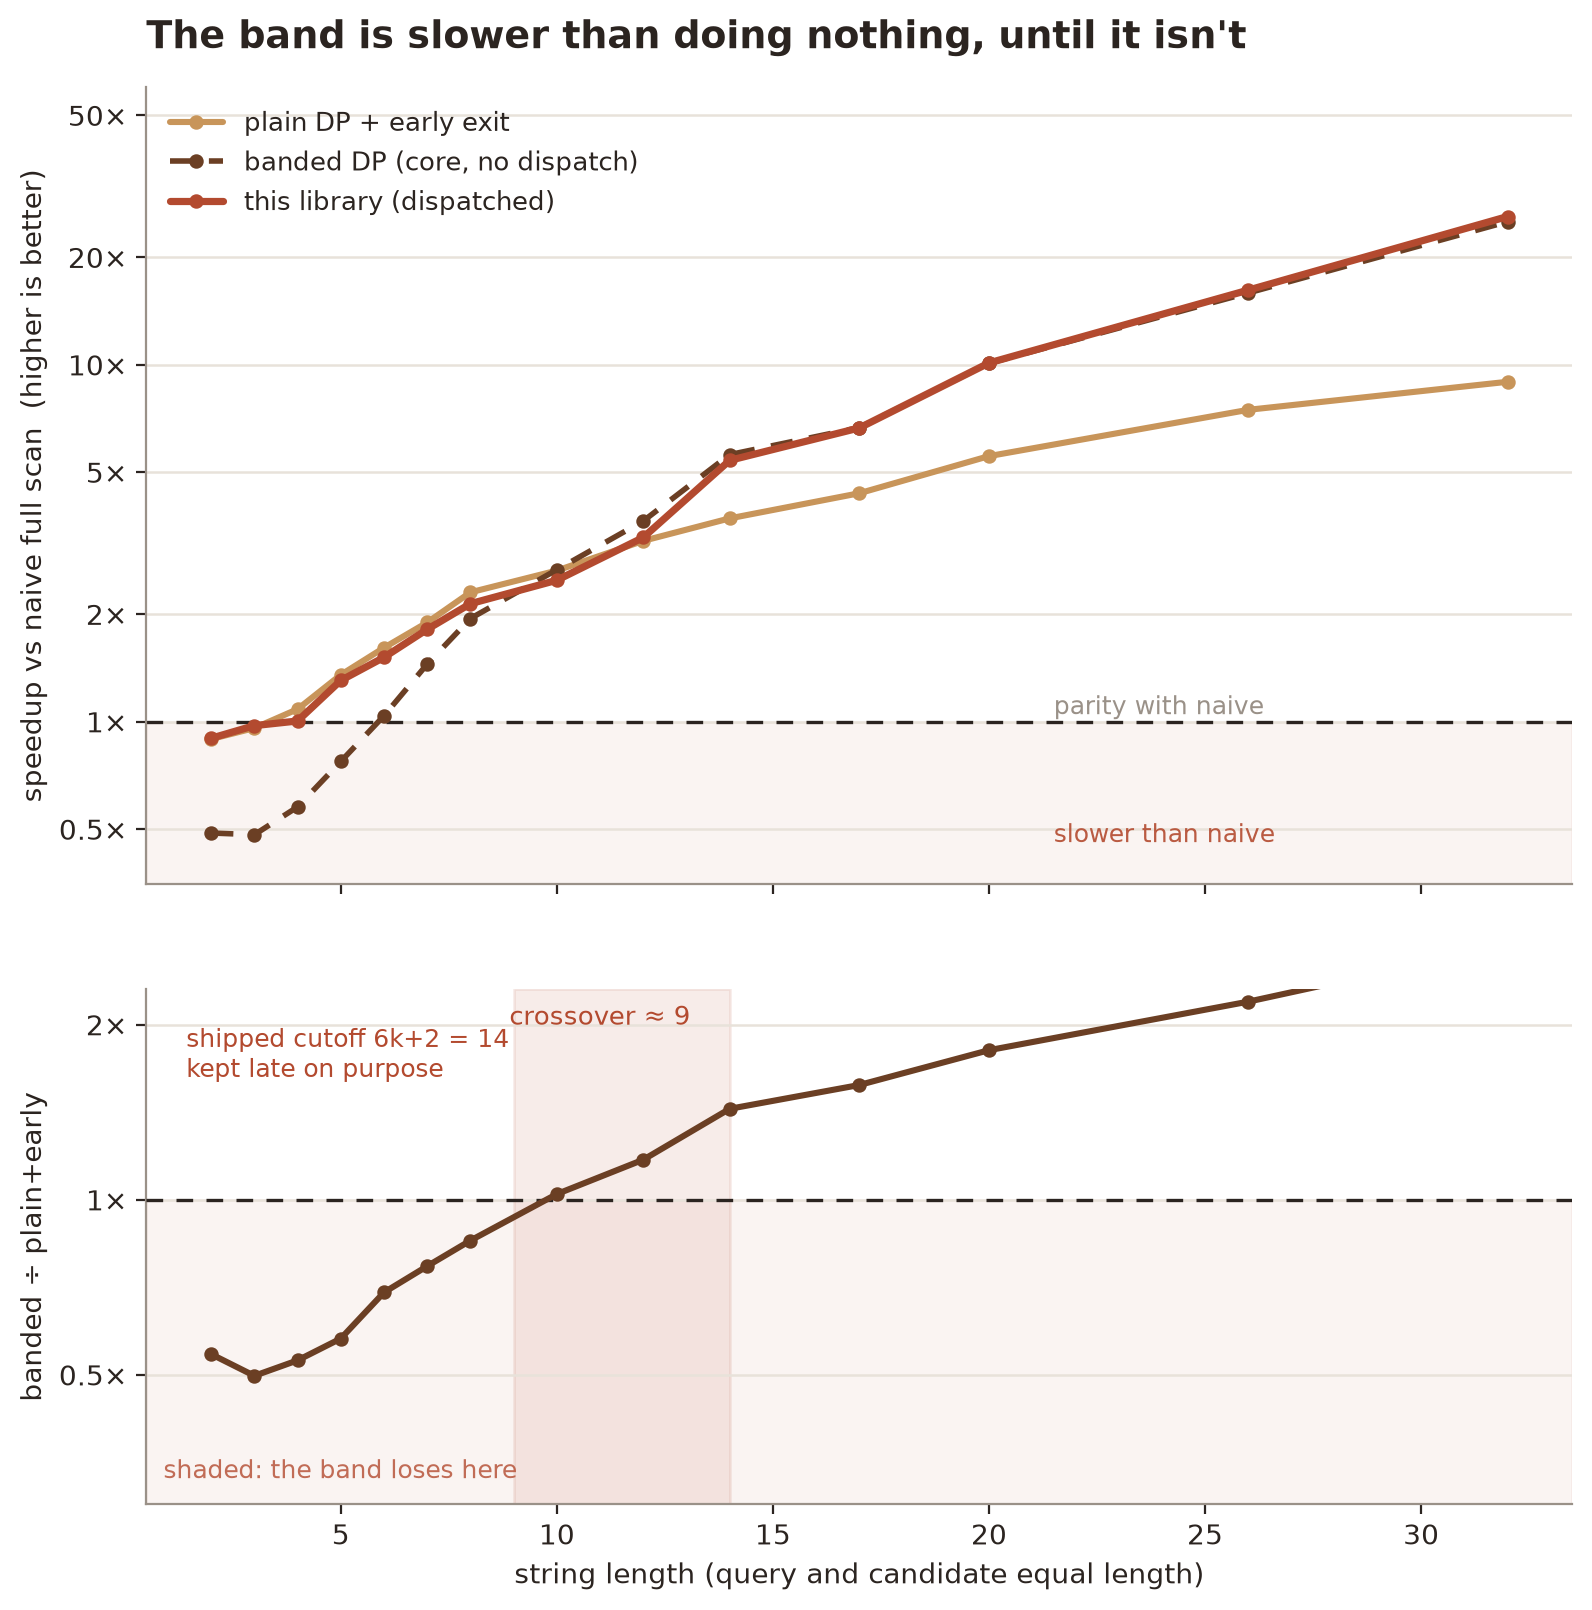
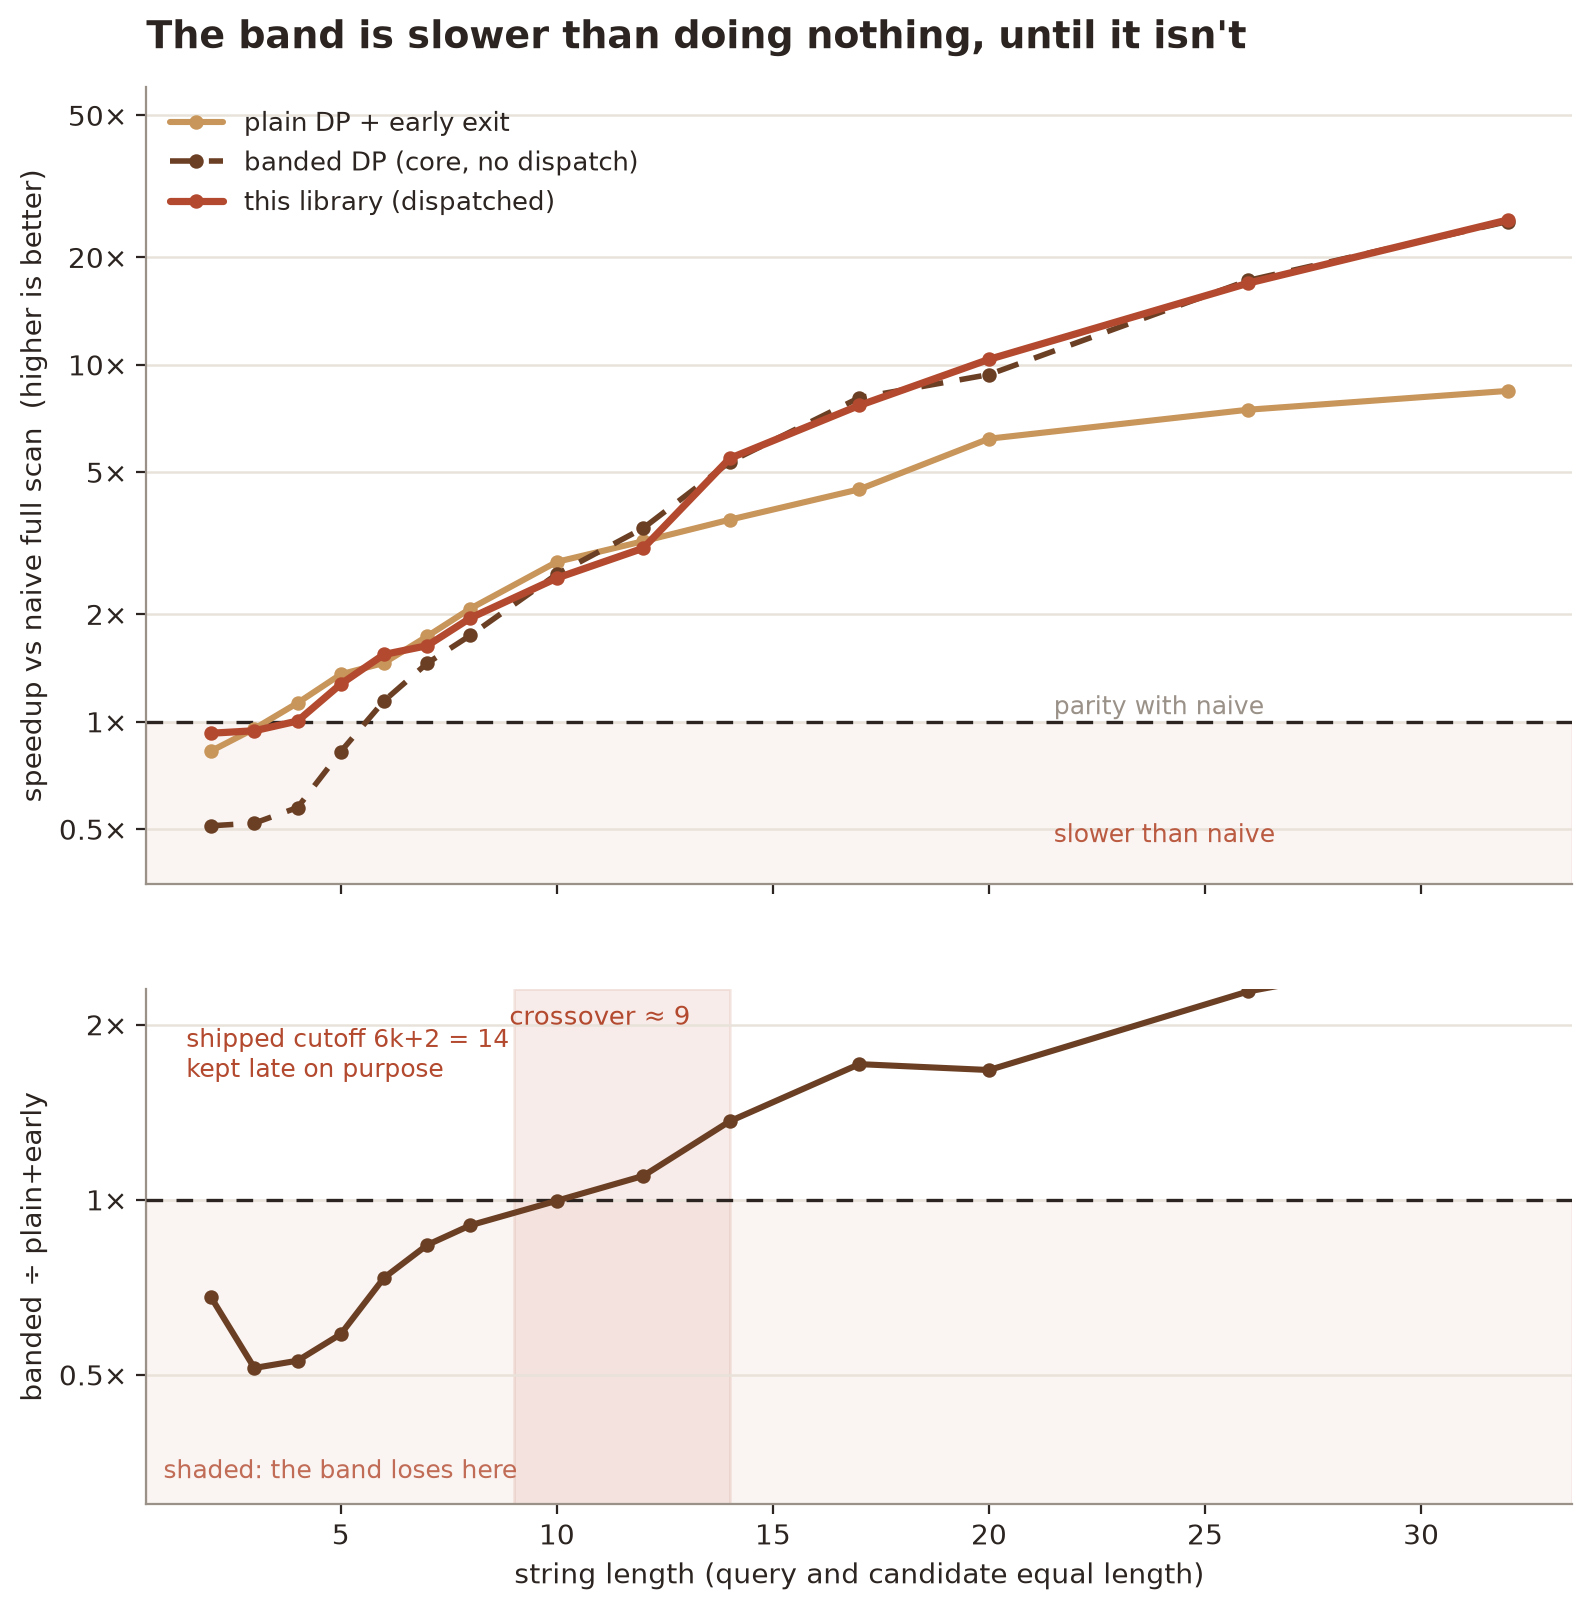
Add a figure for the indexing comparison
Two panels, because the two designs failed for different reasons and one
number each would hide that. Left: the share of an 80,000-node BK-tree a
query has to visit -- 88% on Chinese, 7% on long English. Right: the q-gram
index's speedup against the no-index baseline, as a dumbbell so the 0.95x
case reads as "slightly worse" rather than as a short bar.

Data is fixed rather than re-measured: the BK-tree prototype described in
INDEXING.md is not in the repo and takes four minutes to run.

diff --git a/docs/make_figures.py b/docs/make_figures.py
@@ -275,6 +275,86 @@ def fig_arms(rows, path):
     print(f"  wrote {path}")
 
 
+# One-off experiment results, not re-measured here: the BK-tree prototype lives
+# outside this repo and takes four minutes to run. Numbers from INDEXING.md,
+# N=80,000 for the tree, N=20,000 for the gram index.
+BKTREE = [
+    ("Chinese 2-4, k=2", 88.5, 1.0),
+    ("Chinese 2-4, k=1", 39.5, 1.9),
+    ("English 8-18, k=2", 35.7, 0.4),
+    ("English 20-40, k=2", 7.1, 0.2),
+]
+GRAM = [
+    ("Chinese 2-4 chars", 0.95),
+    ("English 8-18 chars", 18.8),
+    ("English 20-40 chars", 3.9),
+]
+
+
+def fig_indexing(path):
+    fig, (ax1, ax2) = plt.subplots(1, 2, figsize=(13.4, 5.0),
+                                   gridspec_kw={"wspace": 0.52})
+
+    # --- BK-tree: how much of the tree a query had to touch.
+    # Speedup rides in the tick label so the bars stay about one thing.
+    labels = [b[0] for b in BKTREE]
+    rates = [b[1] for b in BKTREE]
+    y = list(range(len(BKTREE)))
+
+    ax1.barh(y, rates, color=MUTED, height=0.55, zorder=3)
+    # Only the visit rate here: the speedup is the right panel's job, and
+    # two numbers per bar reliably collided at 88%.
+    for i, rate in enumerate(rates):
+        ax1.text(rate + 2.2, i, f"{rate:.0f}%", va="center",
+                 fontsize=10.5, color=INK, weight="bold")
+
+    ax1.set_yticks(y)
+    ax1.set_yticklabels(labels, fontsize=9.8)
+    ax1.invert_yaxis()
+    ax1.set_xlim(0, 104)
+    ax1.set_xlabel("share of the 80,000 nodes a query visits")
+    ax1.set_title("BK-tree — visits more of the tree than it saves",
+                  fontsize=12, weight="bold", loc="left", pad=10)
+    ax1.grid(axis="x", color=FADE, lw=0.9, zorder=0)
+    ax1.xaxis.set_major_formatter(FuncFormatter(lambda v, _: f"{v:g}%"))
+
+    # --- q-gram: dumbbell against the no-index baseline at 1.0
+    glabels = [g[0] for g in GRAM]
+    gvals = [g[1] for g in GRAM]
+    gy = list(range(len(GRAM)))
+
+    ax2.axvline(1.0, color=INK, lw=1.2, ls=(0, (5, 4)), zorder=2)
+    for i, v in enumerate(gvals):
+        color = ACCENT if v < 1.05 else LIB
+        ax2.plot([1.0, v], [i, i], color=color, lw=3.0, zorder=3,
+                 solid_capstyle="round")
+        ax2.plot([v], [i], "o", color=color, ms=9, zorder=4)
+        below = i == 0
+        ax2.text(v, i + (0.30 if below else -0.28), f"{v:.2f}×", ha="center",
+                 va="top" if below else "bottom",
+                 fontsize=10.5, weight="bold", color=color)
+
+    ax2.set_yticks(gy)
+    ax2.set_yticklabels(glabels, fontsize=9.8)
+    ax2.invert_yaxis()
+    ax2.set_xscale("log")
+    ax2.set_xlim(0.42, 42)
+    ax2.xaxis.set_major_locator(matplotlib.ticker.LogLocator(base=10, subs=(1, 2, 5)))
+    ax2.xaxis.set_minor_locator(matplotlib.ticker.NullLocator())
+    ax2.xaxis.set_major_formatter(FuncFormatter(lambda v, _: f"{v:g}×"))
+    ax2.set_xlabel("indexed query ÷ full scan  (log, right of 1× is faster)")
+    ax2.set_title("q-gram — pays only past ~14 characters",
+                  fontsize=12, weight="bold", loc="left", pad=10)
+    ax2.grid(axis="x", color=FADE, lw=0.9, zorder=0)
+
+    fig.suptitle("Two index designs, the same wall: short strings have no structure to prune",
+                 fontsize=14, weight="bold", x=0.012, ha="left", y=1.03)
+
+    fig.savefig(path, dpi=200, bbox_inches="tight")
+    plt.close(fig)
+    print(f"  wrote {path}")
+
+
 def main():
     print("measuring length sweep (k=2)...")
     data = measure_lengths()
@@ -286,6 +366,7 @@ def main():
     fig_crossover(data, os.path.join(HERE, "crossover.png"))
     fig_range(rows, os.path.join(HERE, "speedup-range.png"))
     fig_arms(rows, os.path.join(HERE, "three-arms.png"))
+    fig_indexing(os.path.join(HERE, "indexing.png"))
 
 
 if __name__ == "__main__":

diff --git a/README.md b/README.md
@@ -51,8 +51,18 @@ Short strings have too little structure: a 3-character query has two 2-grams and
 one edit destroys both, so the gram bound is vacuous. `Index` detects this and
 quietly defers to `search()`, which means it is never wrong — just sometimes
 useless. Use it only when the corpus is large, the strings are long, and you
-query repeatedly; otherwise `search()` wins. `INDEXING.md` has the numbers and
-the failed BK-tree attempt.
+query repeatedly; otherwise `search()` wins.
+
+![Two index designs hit the same wall](docs/indexing.png)
+
+Left: how much of an 80,000-node BK-tree a query has to visit. 88% on Chinese
+word lookup — the distance distribution is too compressed for the triangle
+inequality to prune anything, so there is nothing left to save. On long English
+strings it visits only 7% and *still* loses, because every visited node costs a
+full exact distance while the linear scan gets to use the band. Right: the q-gram
+index against the same baseline.
+
+`INDEXING.md` has both experiments in full.
 
 **A BK-tree is not the answer here.** It visits 70,798 of 80,000 nodes on
 Chinese input (the distance distribution is too compressed for the triangle
